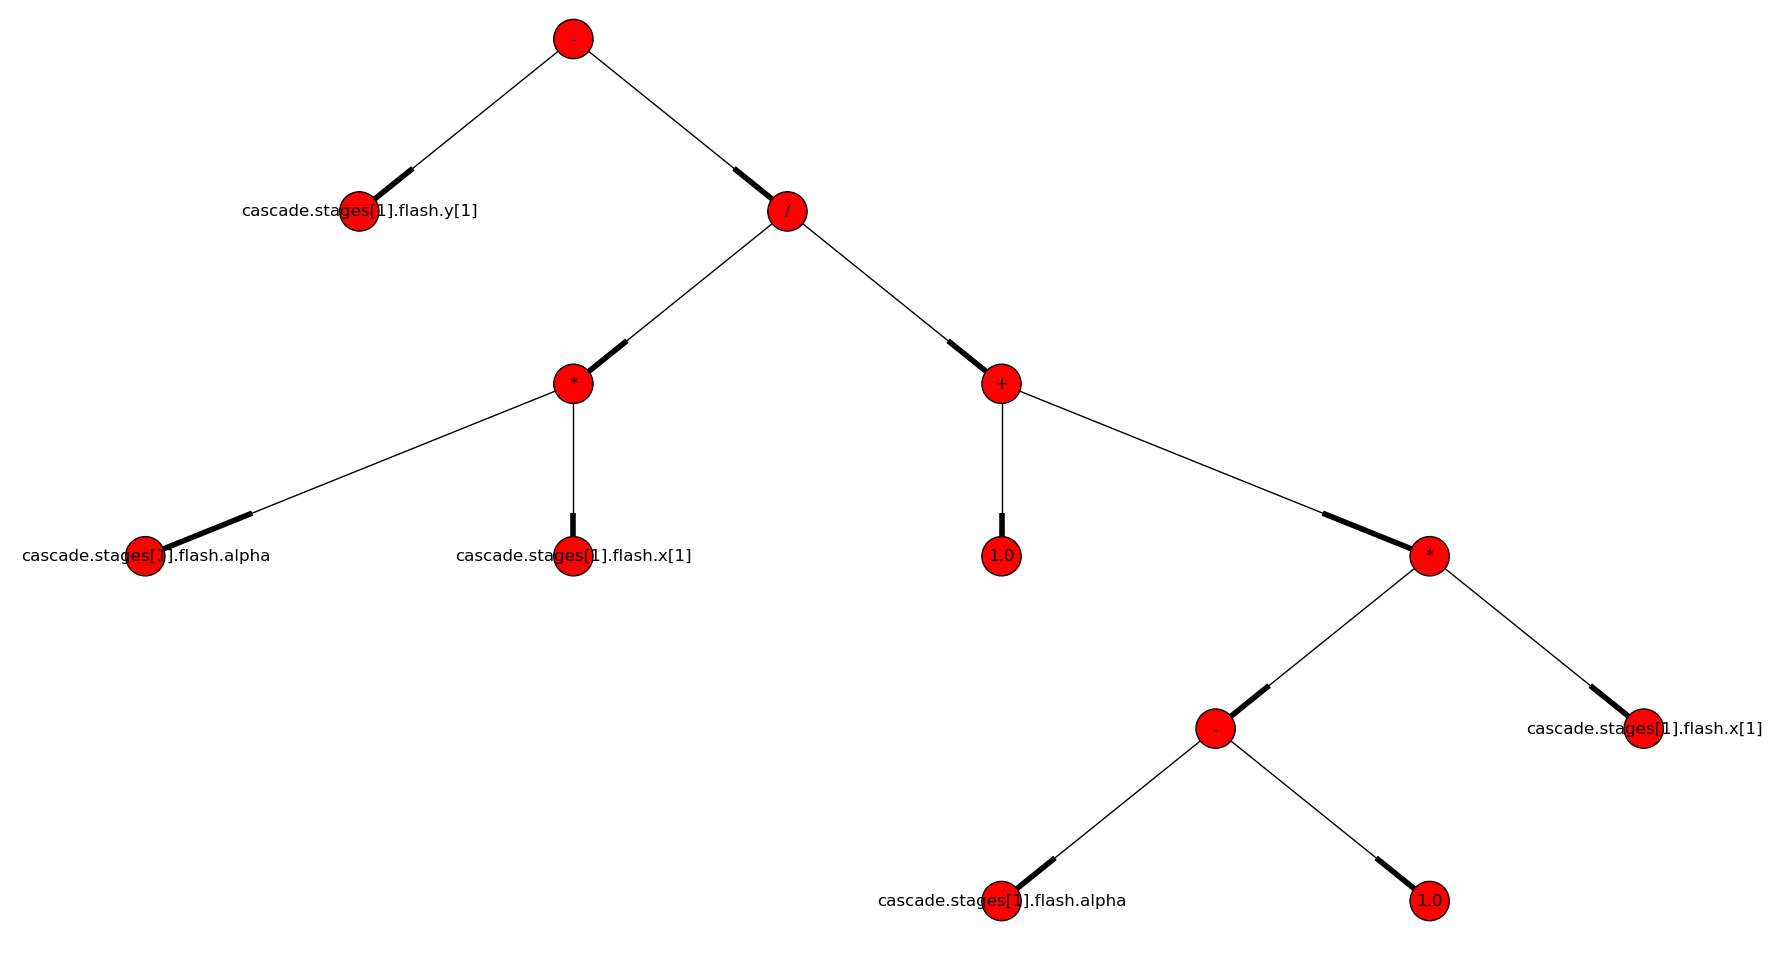
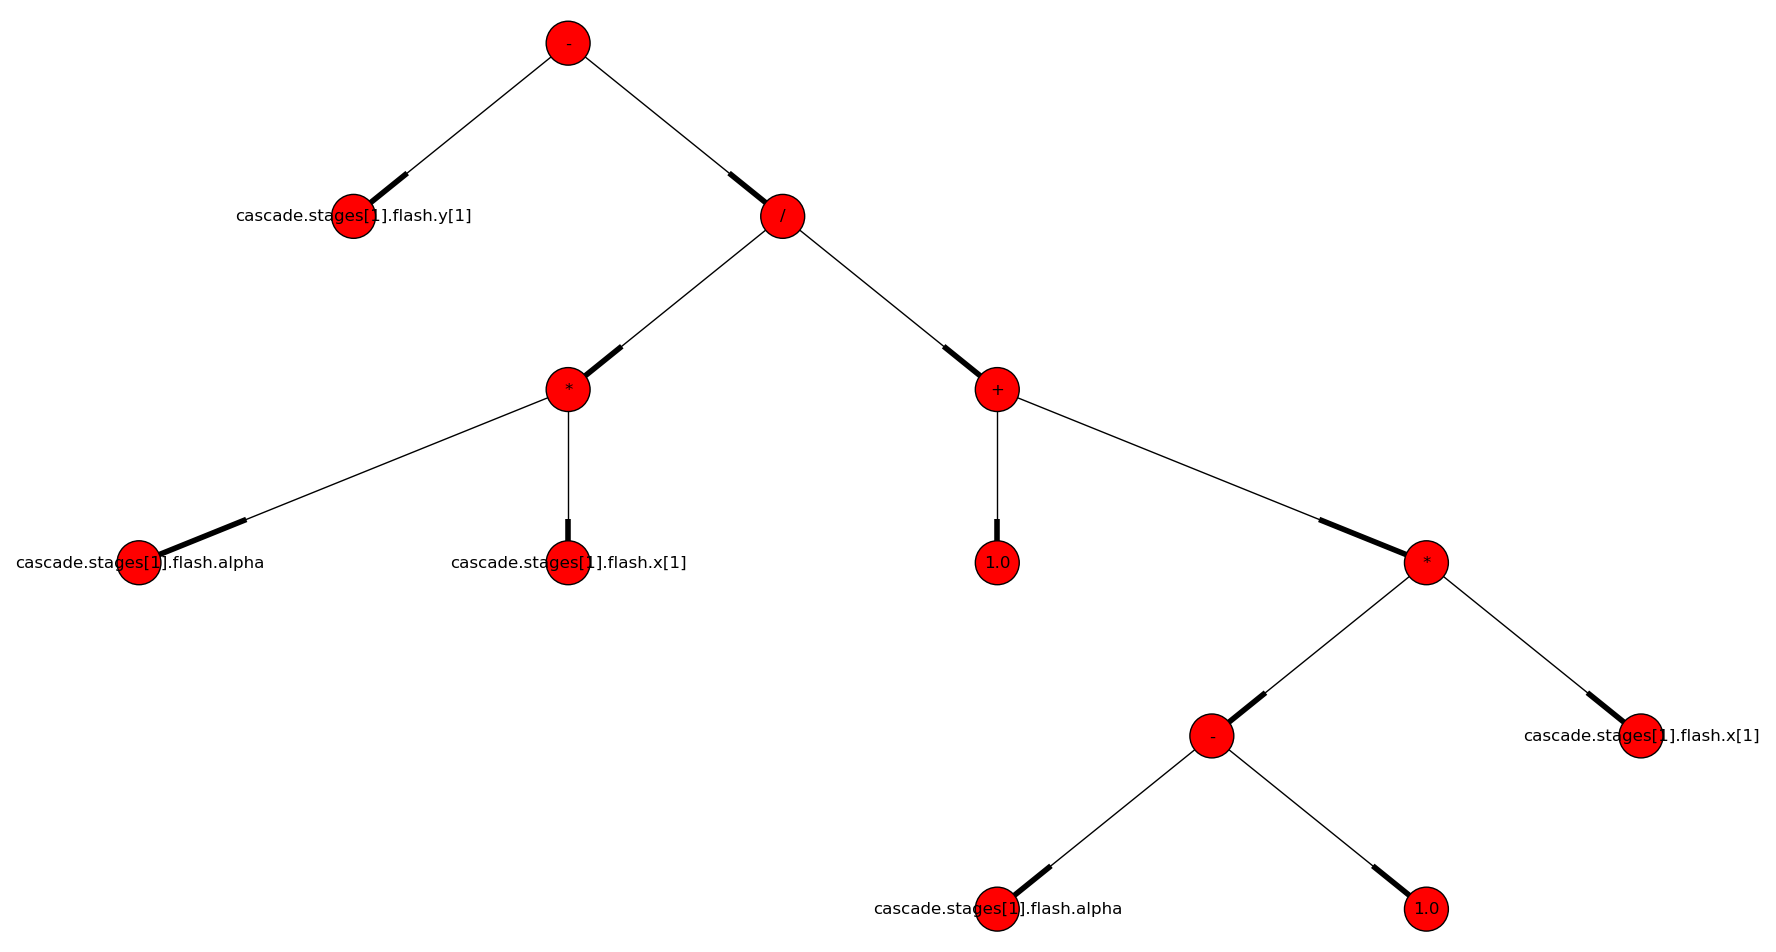
Continued working on the documentation

diff --git a/docs/index.rst b/docs/index.rst
@@ -9,7 +9,7 @@ Exact and heuristic methods for tearing
 =======================================
 
 A demo application is presented on this web-page, showing the capabilities
-of the novel tearing algorithms. The technical details will be published in an 
+of novel tearing algorithms. The technical details will be published in an 
 academic paper. The source code of the prototype implementation is `available on
 GitHub <https://github.com/baharev/sdopt-tearing>`_ under the 3-clause BSD 
 license.
@@ -31,8 +31,8 @@ Sparse matrices ordered to spiked form
 
 Roughly speaking, **tearing algorithms rearrange the rows and the columns of a 
 sparse matrix in such a way that the result is "close" to a lower triangular 
-matrix.** The picture below shows a sparse matrix ordered to the so-called 
-spiked form. The matrix is of size 76x76; this can be reduced to a 5x5 matrix by 
+matrix.** A sparse matrix ordered to the so-called spiked form is shown in the 
+picture below. The matrix is of size 76x76; it can be reduced to a 5x5 matrix by 
 elimination, where 5 equals the number of spike columns, that is, columns with 
 red entries. The blue lines correspond to the equipment boundaries in the 
 technical system; the tear variables are above the diagonal, and are painted 
@@ -67,9 +67,9 @@ XML file, see under *Export > Export XML* in OMEdit.
 2. Recovering the process graph
 -------------------------------
 
-A directed graph is recovered from the flattened model: The equipments 
+A directed graph is recovered from the flattened model: **The equipments 
 correspond to the vertices of the process graph, the edges correspond to the 
-material flows. Below is the process graph of a distillation column with
+material flows.** Below is the process graph of a distillation column with
 7 stages.
 
 .. image:: ./pics/Cascade.png
@@ -97,7 +97,7 @@ The picture below shows the expression tree for the equation: ::
 
     y[1] = alpha*x[1]/(1.0+(alpha-1.0)*x[1]).
     
-.. image:: ./pics/ExprTree2.png
+.. image:: ./pics/ExprTree.png
    :alt: Expression Tree in SymPy.
    :align: center
    :scale: 75%
@@ -116,18 +116,18 @@ were the gray entries in the :ref:`first picture <spiked-form>`.
 
 **There is no clear objective for tearing. A common choice is to minimize the 
 size of the final reduced system,** or in other words, to minimize the number of 
-spike columns. Although this objective is questionable (it ignores 
-numerical stability for example), it nevertheless makes the meaning of optimal 
+spike columns. Although this objective is questionable (it ignores numerical 
+stability for example), it nevertheless makes the meaning of optimal 
 mathematically well-defined.
 
-If Gurobi is installed, **the Jacobian is ordered optimally with an exact method, 
-based on integer programming.** For the same system that was shown in the 
-:ref:`first picture <spiked-form>`, we get an optimal ordering that yields a 4x4 
-reduced system. The suboptimal ordering shown in the first picture gives a 5x5 
-reduced system, and was obtained with the heuristic 
-method detailed in the next section. **The integer programming approach does not 
-need or use the block structure** which was given with the blue lines in the 
-first picture; here the blue lines are absent.
+If Gurobi is installed, **the Jacobian is ordered optimally with an exact 
+method, based on integer programming.** For the same system that was shown in 
+the :ref:`first picture <spiked-form>`, we get an optimal ordering that yields a 
+4x4 reduced system. The suboptimal ordering shown in the first picture gives a 
+5x5 reduced system, and was obtained with the heuristic method detailed in the 
+next section. **The integer programming approach does not need or use the block 
+structure** which was given with the blue lines in the first picture; here the 
+blue lines are absent.
 
 .. image:: ./pics/OptimalTearing.png
    :alt: Optimal tearing, obtained with integer programming.
@@ -140,17 +140,17 @@ first picture; here the blue lines are absent.
 
 .. _natural-block-structure:
 
-Technical systems can be partitioned into blocks along the equipment 
-boundaries in a fairly natural way. We call this partitioning the 
-*natural block structure*. **The implemented tearing heuristic first orders the 
-blocks, then the equations within each block.** This is how the 
-:ref:`first picture <spiked-form>` with the spiked form was obtained. For your 
-convenience, exactly the same picture is shown again below.
+Technical systems can be partitioned into blocks along the equipment boundaries 
+in a fairly natural way. We call this partitioning the *natural block 
+structure*. **The implemented tearing heuristic first orders the blocks, then 
+the equations within each block.** This is how the :ref:`first picture 
+<spiked-form>` with the spiked form was obtained. Exactly the same picture is 
+shown below for your convenience.
 
 .. _OrderingWithBlocks:
 
 .. image:: ./pics/SpikedForm.png
-   :alt: Tearing with the natural block structure.
+   :alt: Hierarchical tearing with the natural block structure.
    :align: center
    :scale: 50%
 
@@ -165,7 +165,7 @@ desired. After the elimination, **the reduced system has as many variables and
 equations as the number of spike columns.** An AMPL code snippet is shown 
 below, generated with the demo application. ::
 
-    # Unit
+    # Block
     # Tears: condenser.divider.zeta (v19)
     eq_14: v14 = v12*v19;  # condenser.divider.outlet[1].f[1] = condenser.divider.inlet[1].f[1]*condenser.divider.zeta
     eq_15: v15 = v13*v19;  # condenser.divider.outlet[1].f[2] = condenser.divider.inlet[1].f[2]*condenser.divider.zeta
@@ -190,31 +190,33 @@ In the above code snippet, equations ``eq_14``--``eq_20`` and variables
 diagonal block with only black entries on its diagonal.
 
 **Executable Python code is also generated for evaluating the reduced system.** 
-The Pyton code only serves to cross-check correctness.
+The Python code only serves to cross-check correctness.
 
 
 7. Classic tearing (as in the Modelica tools)
 ---------------------------------------------
 
 The (undirected) bipartite graph representation of the system of equations is 
-first oriented (made directed) with matching. Then the strongly connected 
+first oriented (made directed) with matching. Then, the strongly connected 
 components (SCC) of this directed graph are identified. This way of identifying 
 the SCCs is also referred to as block lower triangular decomposition (BLT 
 decomposition) or Dulmage-Mendelsohn decomposition. 
 
 **After the BLT decomposition, some of the edges are torn within each SCC to 
-make the directed graph acyclic.** Greedy heuristics, for example variants of 
-Cellier's heuristic, are used to identify a tear set with small cardinality. 
-The elimination order is obtained by topological sorting.
+make the directed graph acyclic.** Greedy heuristics, for example `variants of 
+Cellier's heuristic <http://dx.doi.org/10.1145/2666202.2666204>`, are used to 
+identify a tear set with small cardinality. The elimination order can obtained 
+by topological sorting.
 
-The plot below was obtained with this conventional way of tearing, the 
-corresponding matrix shown in spiked form. The blue lines partition the matrix 
-along the SCCs. For our running example, the BLT decomposition gives a large 
-block, much bigger than those obtained by partitioning along the equipment 
-boundaries, see at the :ref:`natural block structure <natural-block-structure>`. 
-This is not surprising as the example is a distillation column. This difference 
-between the two partitioning is even more pronounced for realistic columns that 
-are much longer then the one used in this demo.
+The plot below was obtained with this conventional way of tearing; the 
+corresponding matrix is shown in spiked form. The blue lines partition the 
+matrix along the SCCs. For our running example, the BLT decomposition gives a 
+large block, significantly larger than those obtained by partitioning along the 
+equipment boundaries, see at the :ref:`natural block structure 
+<natural-block-structure>`. This is not surprising, as the example is a 
+distillation column. This difference between the two partitionings is even more 
+pronounced for realistic columns, that are much longer than the one used in this
+demo application.
 
 .. image:: ./pics/ClassicTearing.png
    :alt: Classic tearing.
@@ -222,9 +224,10 @@ are much longer then the one used in this demo.
    :scale: 50%
 
 
-8. Tearing heuristics that resemble the minimum-degree ordering
+8. Tearing heuristics that resemble the minimum degree ordering
 ---------------------------------------------------------------
 
+http://dx.doi.org/10.1007/BF02025533
 Does not need any block structure.
 
 .. image:: ./pics/MindegNoLookahead.png
@@ -255,6 +258,14 @@ Does not need any block structure.
 
 Future work
 ===========
+
+
+Establish a benchmark suite
+---------------------------
+
+
+Integrate to Modelica tools
+---------------------------
 
 
 Improving numerical stability
